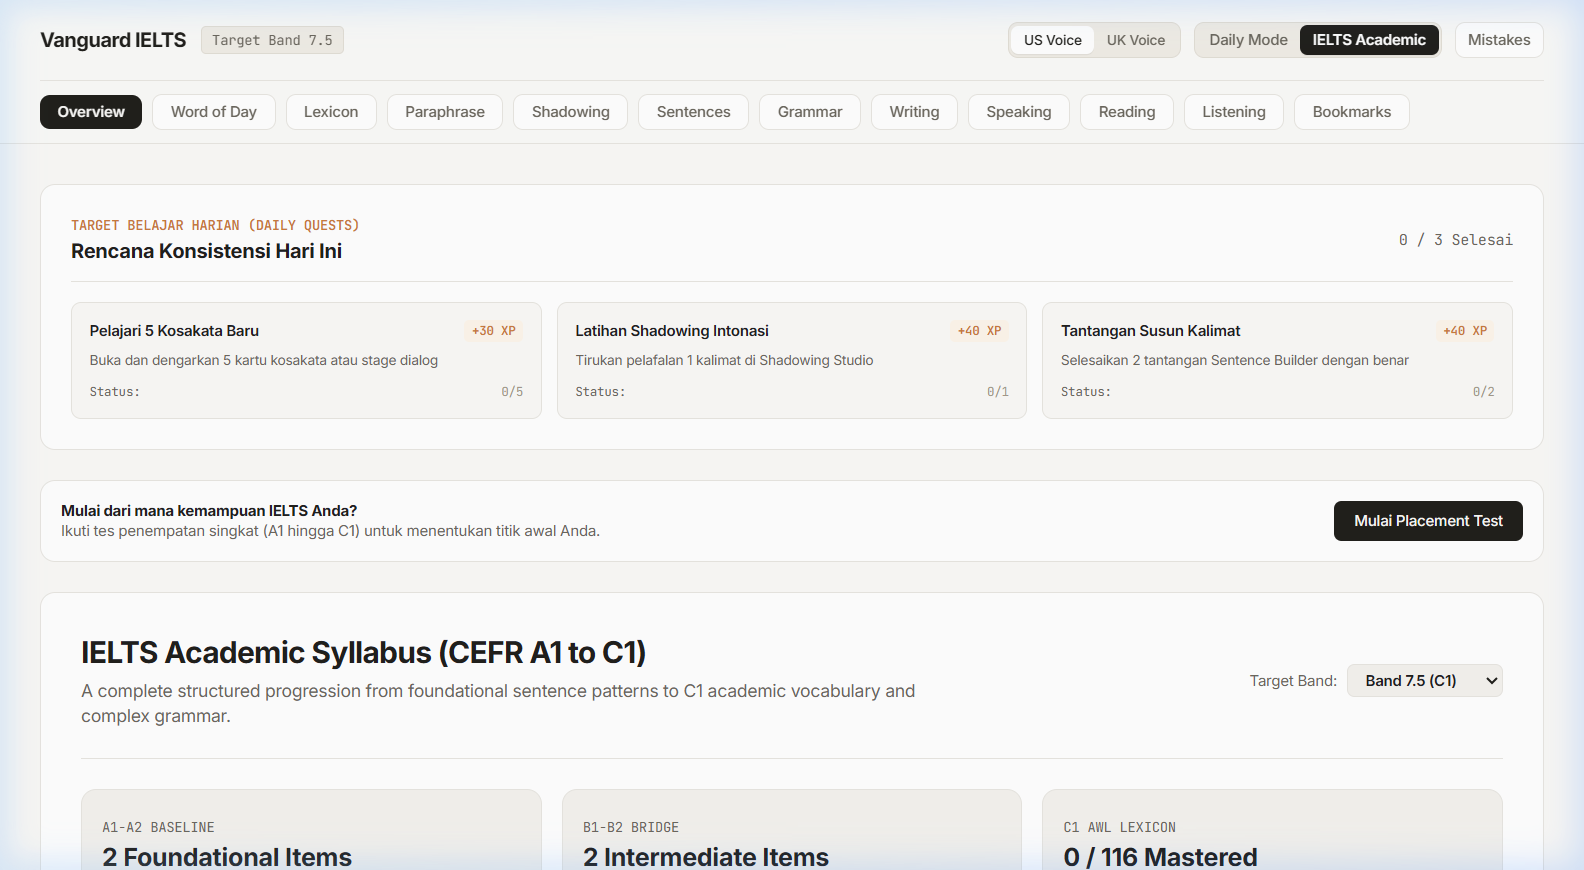
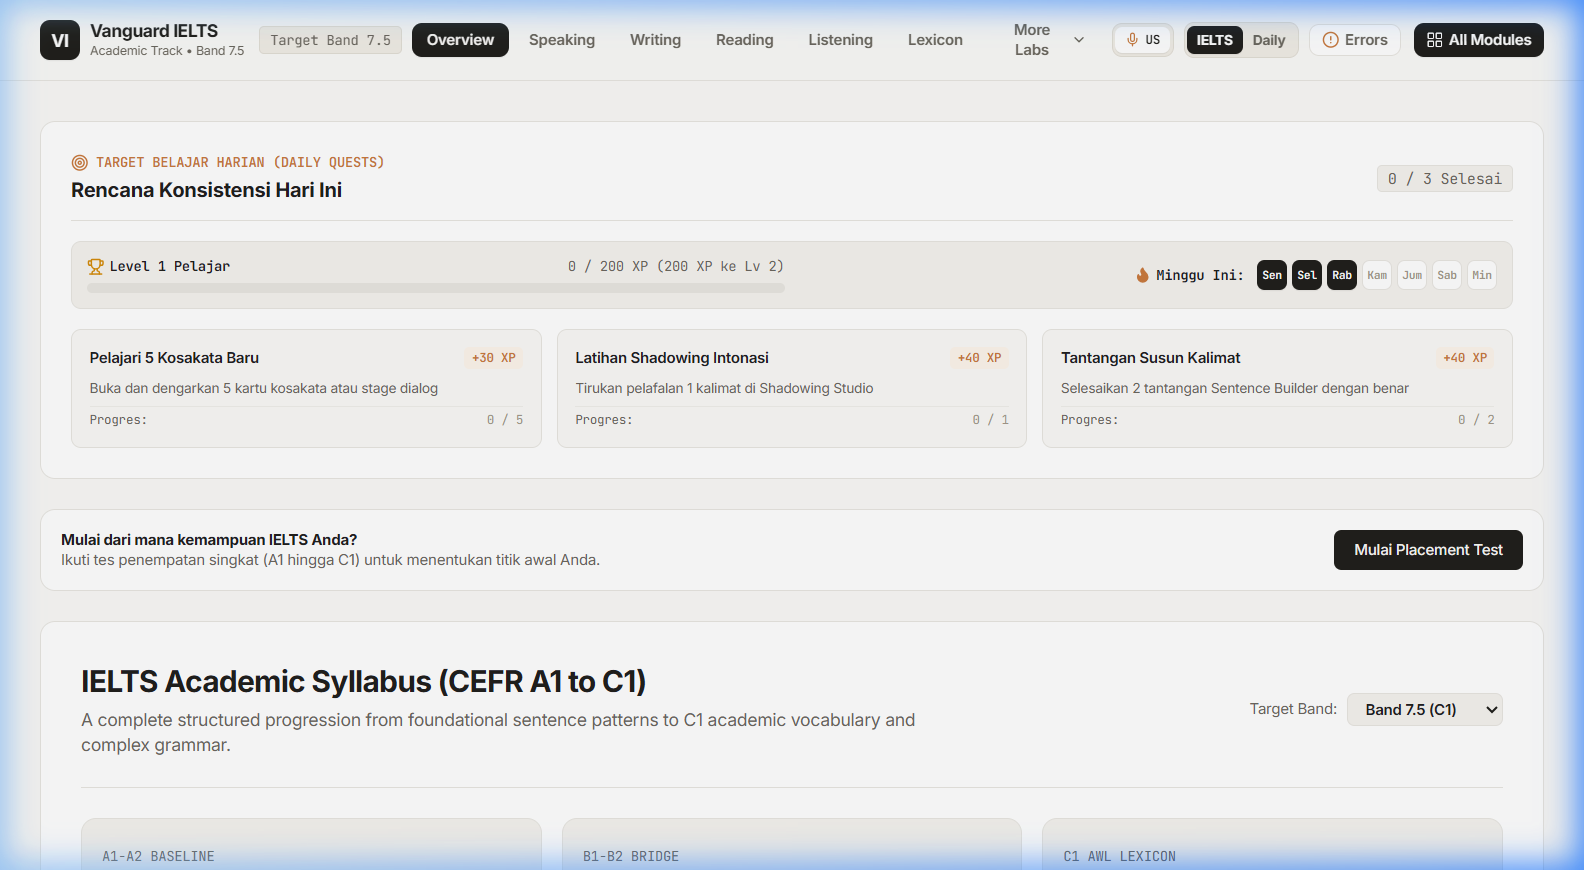
feat(portfolio): update Vanguard IELTS preview image and demo URL

diff --git a/src/data/realPortfolio.ts b/src/data/realPortfolio.ts
@@ -143,7 +143,7 @@ export const REAL_PROJECTS: RealProject[] = [
     year: "2026",
     status: "Completed",
     github: "https://github.com/a1fariz/Vanguard-IELTS",
-    demo: "https://vanguard-ielts.vercel.app",
+    demo: "https://vanguard-ielts.alfarizi.my.id/",
     image: "/images/projects/vanguard-ielts.png",
     description: "Interactive, comprehensive IELTS academic preparation web platform covering CEFR A1 to C1 proficiency levels. Features all 4 official IELTS skill modules (Listening, Reading, Writing, Speaking), Shadowing Studio with native Web Speech synthesis, SuperMemo-inspired Spaced Repetition (SRS) academic vocabulary engine, step-by-step Daily Adventure progression map, Mistake Bank for targeted error recovery, and Paraphrase Studio.",
     highlight: "4-skill IELTS preparation + Spaced Repetition (SRS) + Shadowing Studio + Web Speech API",
